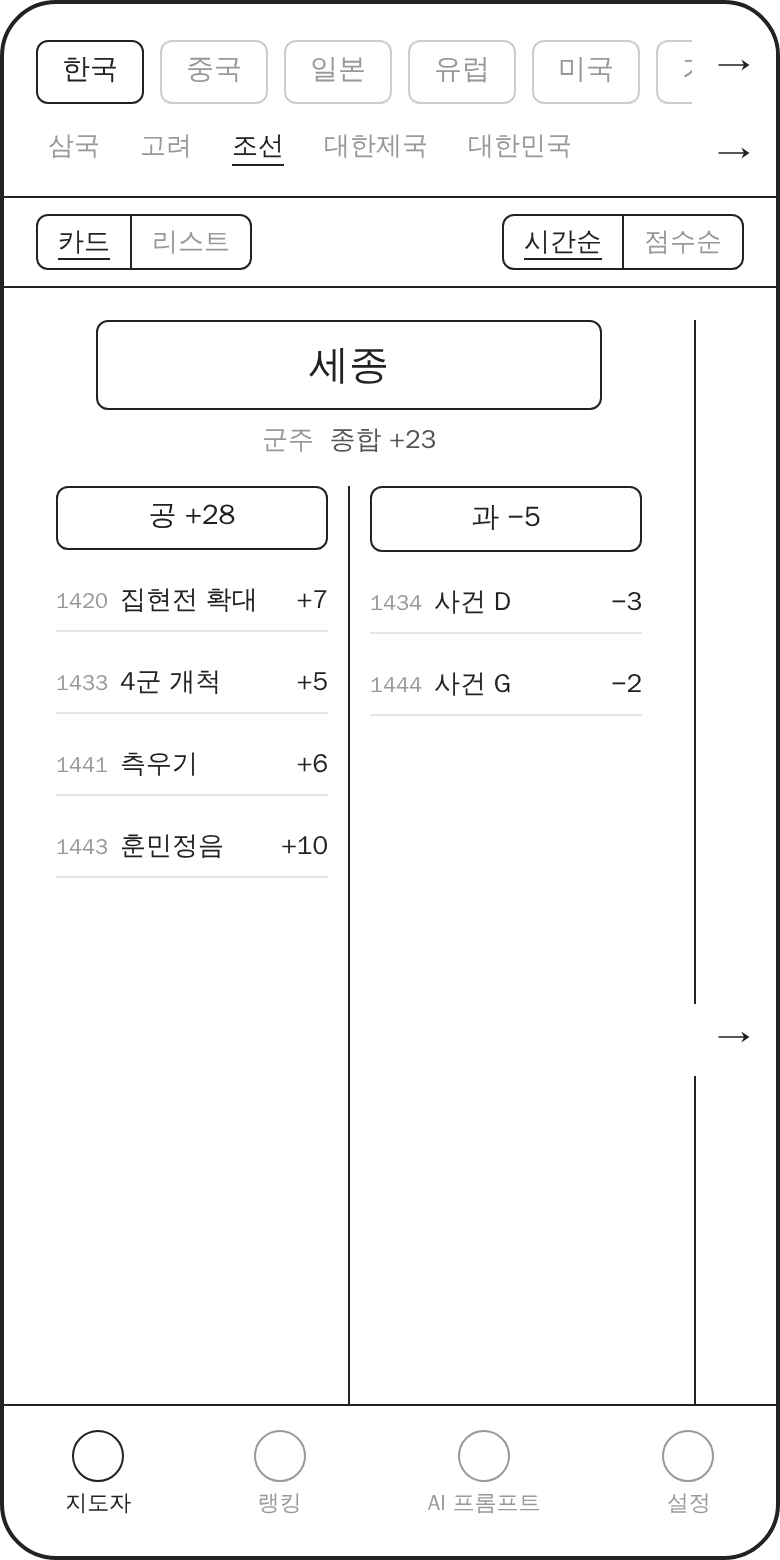
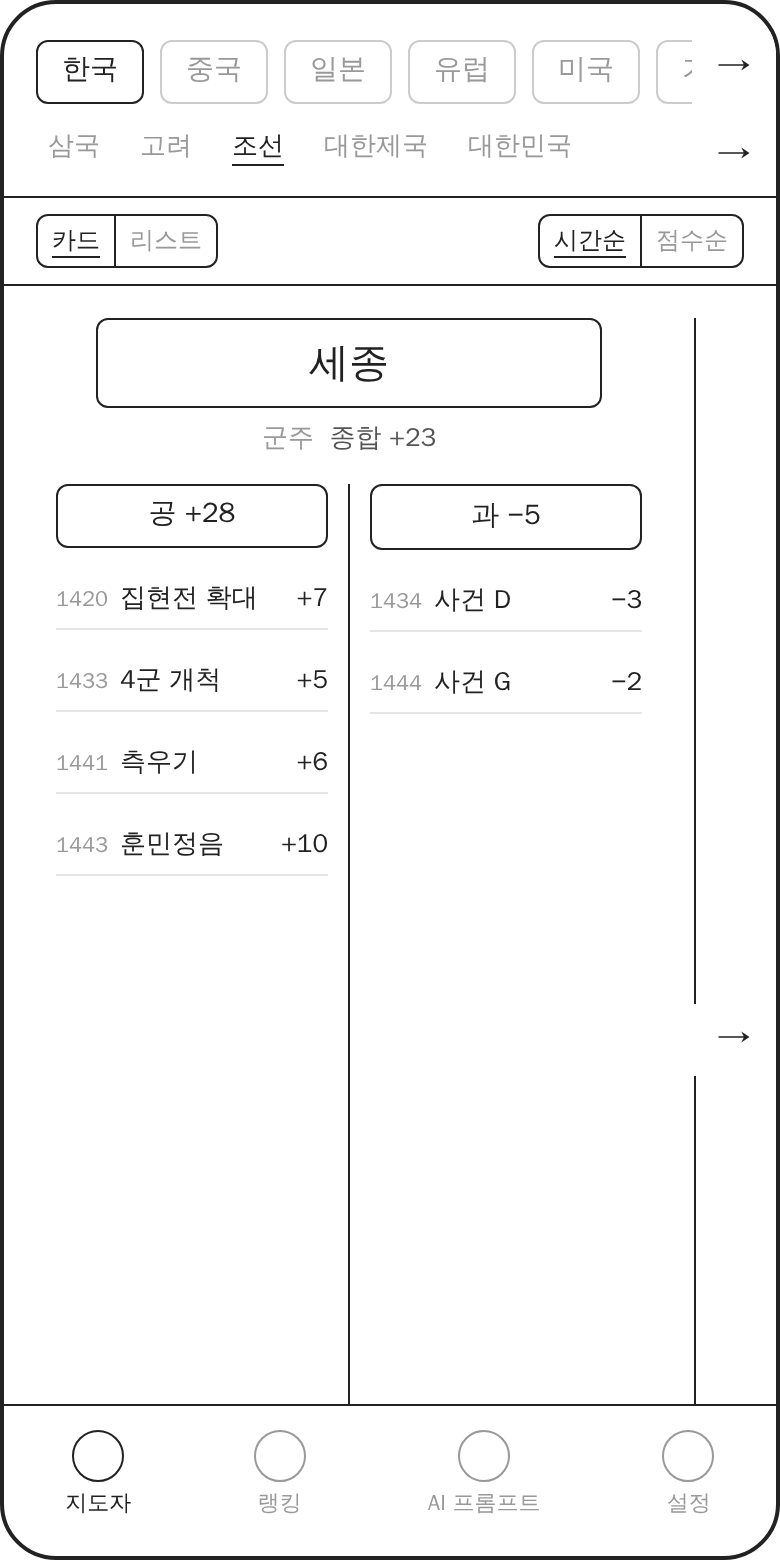
Replace role dropdown with 전체/통치자/관료 segment filter
Claude-Session: https://claude.ai/code/session_018d411kTBLTazJuieQGaakd

diff --git a/mockups/mobile.html b/mockups/mobile.html
@@ -27,9 +27,9 @@
   .eras.sub .era.on { text-decoration: underline; text-underline-offset: 5px; }
 
   /* 보기/정렬 툴바 */
-  .tools { display: flex; align-items: center; gap: 8px; padding: 8px 16px; border-top: 1.5px solid #222; border-bottom: 1.5px solid #222; font-size: 13px; }
+  .tools { display: flex; align-items: center; gap: 6px; padding: 8px 16px; border-top: 1.5px solid #222; border-bottom: 1.5px solid #222; font-size: 13px; }
   .seg { display: flex; border: 1.5px solid #222; border-radius: 6px; overflow: hidden; }
-  .seg span { padding: 4px 10px; color: #999; }
+  .seg span { padding: 4px 7px; color: #999; white-space: nowrap; font-size: 12px; }
   .seg span.on { color: #222; text-decoration: underline; text-underline-offset: 4px; }
   .seg span + span { border-left: 1.5px solid #222; }
 
@@ -113,6 +113,7 @@
   <span class="arrow" style="top:58px">→</span>
   <div class="tools">
     <div class="seg"><span>카드</span><span class="on">리스트</span></div>
+    <div class="seg"><span class="on">전체</span><span>통치자</span><span>관료</span></div>
     <span class="sp"></span>
     <div class="seg"><span class="on">시간순</span><span>점수순</span></div>
   </div>
@@ -134,7 +135,7 @@
   <div class="title">랭킹</div>
   <div class="tools">
     <div class="box" style="padding:4px 10px">전체 국가 ▾</div>
-    <div class="box" style="padding:4px 10px">전체 구분 ▾</div>
+    <div class="seg"><span class="on">전체</span><span>통치자</span><span>관료</span></div>
     <span class="sp"></span>
     <span class="muted">종합점수순</span>
   </div>

diff --git a/SPEC.md b/SPEC.md
@@ -7,7 +7,7 @@
 
 | 항목 | 결정 |
 | --- | --- |
-| 평가 대상 | 최고 지도자(군주·대통령·총리·실권자) + 주요 권력자(재상·장군 등). 시트 `구분` 칸으로 표시, 랭킹에서 구분 필터 |
+| 평가 대상 | 최고 지도자(군주·대통령·총리·실권자) + 주요 권력자(재상·장군 등). 시트 `구분` 칸으로 표시. 앱에서 통치자(군주·대통령·총리·실권자) / 관료(재상·장군 등)로 묶어 [전체|통치자|관료] 필터 |
 | 스택 | Next.js 풀스택 |
 | 데이터 저장소 | Google Sheets (DB처럼 사용), 관리자만 입력 |
 | 시트 쓰기 | 서비스 계정으로 앱이 직접 기록 |
@@ -25,8 +25,8 @@
 1. **지도자** — 상단 2단 탭(좌우 스와이프): 1단 국가·지역(한국/중국/일본/유럽/미국/기타), 2단 왕조·시대(1단에 따라 바뀜, 시트에서 자동 생성)
    - 보기 전환: 카드 / 리스트, 정렬: 시간순 / 점수순
    - 카드 보기: 지도자 카드 좌우 스와이프. 이름, 그 밑에 구분(군주 등)과 종합점수, 공(+합계) / 과(−합계) 두 칸에 사건 목록
-   - 리스트 보기: 해당 시대 지도자 목록 (공, 과, 종합)
-2. **랭킹** — 국가 필터, 구분 필터, 종합점수순
+   - 리스트 보기: 해당 왕조 지도자 목록 (공, 과, 종합), [전체|통치자|관료] 필터
+2. **랭킹** — 국가 필터, [전체|통치자|관료] 필터, 종합점수순
 3. **AI 프롬프트** — 지도자 선택, 기준 칩(가중치) + 자유 입력 → 프롬프트 복사 → 응답 붙여넣기 → 기본 대비 결과 (저장 안 함)
 4. **설정** — 관리자 비밀번호 → 지도자 선택 → 채점 프롬프트 복사 → 응답 붙여넣기 → 시트에 저장
 
